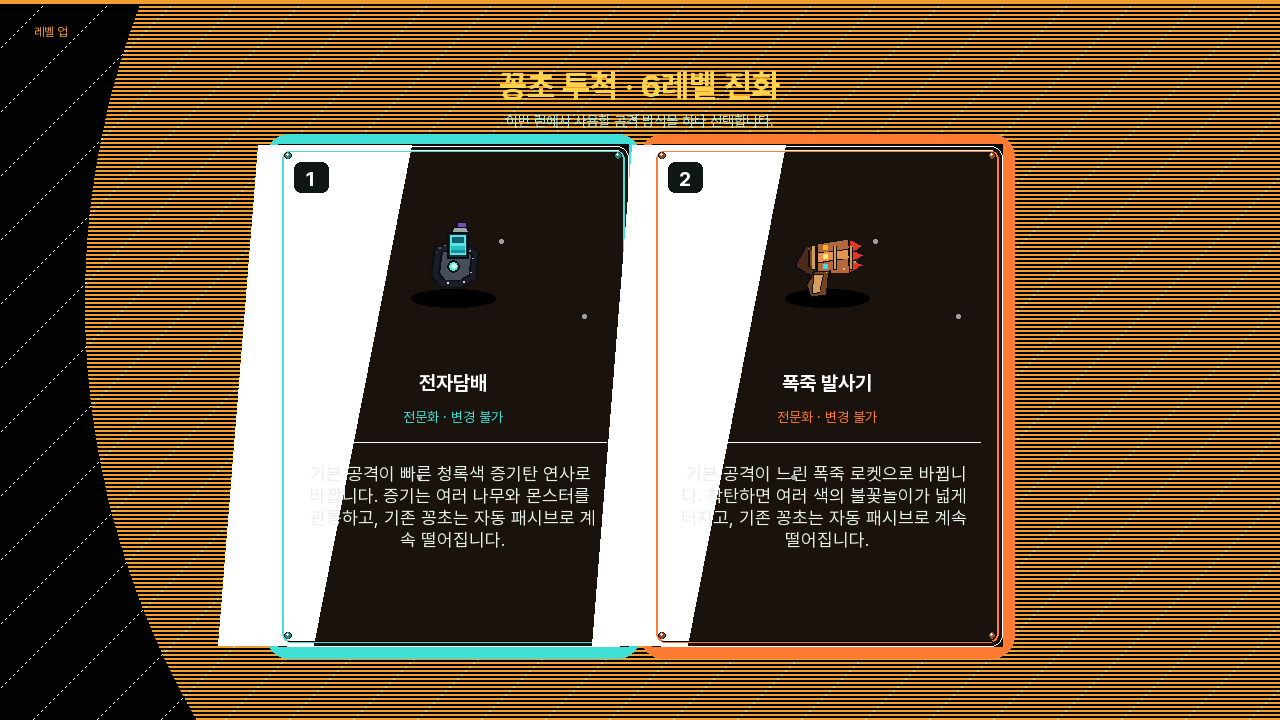
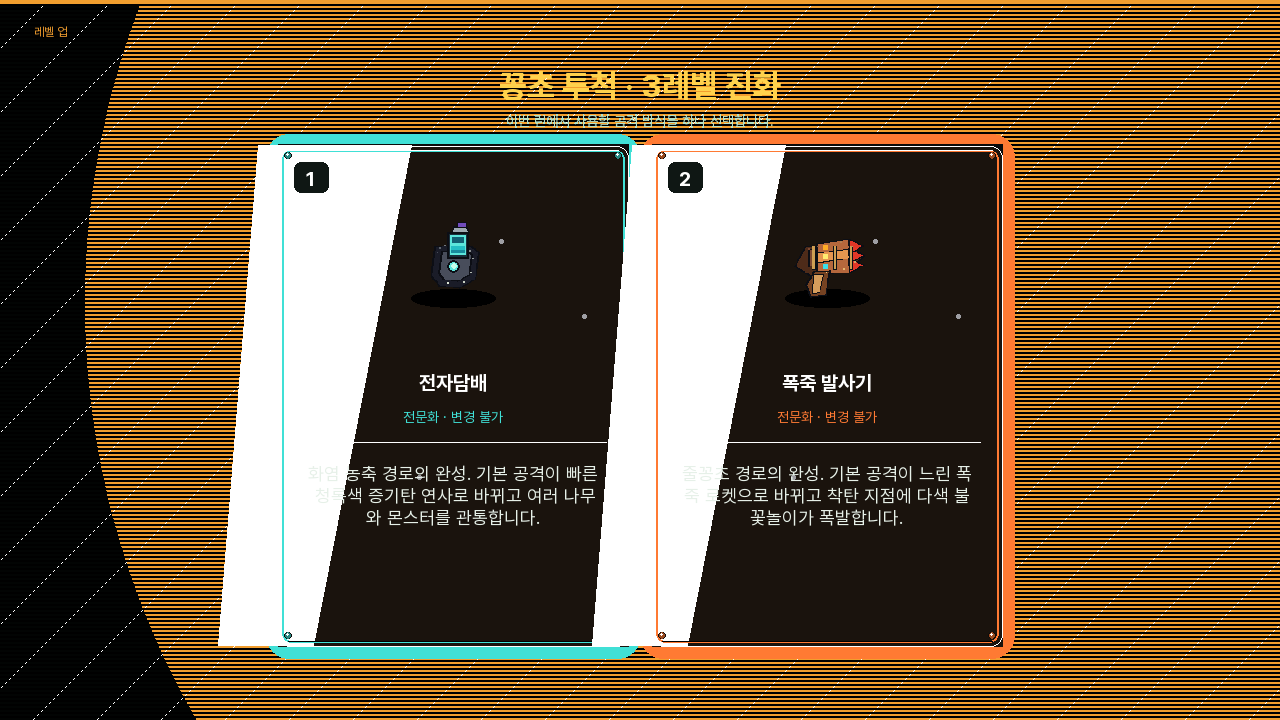
feat: branch smoker skill at rank three

Changed region(s): [[0.5312, 0.6417, 0.7812, 0.7639], [0.25, 0.6417, 0.4688, 0.7639], [0.5, 0.0917, 0.5938, 0.1222]]

diff --git a/docs/character_dossier.html b/docs/character_dossier.html
@@ -671,7 +671,7 @@ const SKILLS = {
   },
   fire: { label: TRAITS.fire.label, accent: TRAITS.fire.accent, tagline: TRAITS.fire.tagline, doctrine: TRAITS.fire.doctrine,
     nodes: [
-      {id:"molotov",track:"spread",name:"꽁초 투척",desc:"사거리와 꽁초의 불씨 전이 범위, 비행 직격 피해가 늘어납니다. 6레벨에는 전자담배/폭죽 중 기본 무기를 진화시키고, 꽁초는 7초간 남아 불씨를 옮기는 자동 패시브가 됩니다."},
+      {id:"molotov",track:"spread",name:"꽁초 투척",desc:"사거리와 꽁초의 불씨 전이 범위, 비행 직격 피해가 늘어납니다. 3레벨에는 화염 농축/줄꽁초 경로를 고르고, 6레벨에는 선택 경로에 따라 전자담배/폭죽 발사기로 자동 진화합니다."},
       {id:"dry_forest",track:"spread",name:"건조주의보 무시",desc:"꽁초의 착화 확률이 레벨당 +6%p 높아지고(최대 75%), 붙은 불이 주변 나무로 더 빠르고 넓게 번집니다."},
       {id:"oil_drum",track:"spread",name:"라이터 기름 유출",desc:"나무가 다 타버리면 레벨당 폭발 확률이 크게 올라(1렙 7.5%→5렙 63%), 6렙에서는 100% 확정 발동합니다."},
       {id:"straw_bale",track:"spread",name:"마른 건초더미 생성",desc:"주기적으로 큰 건초더미를 둡니다. 꽁초가 닿으면 0.5초 뒤 불이 붙고, 레벨에 따라 넓어지는 화염 지대가 주변 나무와 적에게 지속 피해를 줍니다. 불이 옮겨붙어 다른 대상을 점화시키지는 않습니다."},
@@ -747,7 +747,7 @@ const SYNERGY_TAGS = {
   boomerang_axe:["momentum","impact"],seed_mine:["growth","field"],chain_lightning:["momentum","impact"],
 };
 const SKILL_BRANCHES = {
-  molotov:["전자담배 [인게임 구현] — 6레벨 진화. 마우스를 누르면 청록색 증기탄을 빠르게 연사하고 이동 경로의 나무·몬스터를 관통 타격","폭죽 발사기 [인게임 구현] — 6레벨 진화. 곡사 로켓 착탄 뒤 384px 원생 셀의 30프레임 다색 불꽃놀이가 30fps로 이어지며 나무·몬스터를 타격"],
+  molotov:["화염 농축 [인게임 구현] — 3레벨 분기. 불씨 전이 반경 +25%, 확률 +35%, 직격 +35%, 연소·확산 +30%; 6레벨 전자담배 자동 진화","줄꽁초 [인게임 구현] — 3레벨 분기. 한 번에 독립 판정 꽁초 3개비 투척; 6레벨 30fps 다색 폭죽 발사기 자동 진화"],
   seed_mine:["대형 지뢰 — 반경 +42%, 피해 +35%","산탄 지뢰 — 본체 폭발 뒤 작은 씨앗 6개 재폭발","발아 지뢰 — 폭발 자리에 4초 덩굴밭"],
   boomerang_axe:["넓은 도끼 — 피격 폭 +45%, 피해 +18%","빠른 왕복 — 속도 +55%, 발사 주기 -35%","튕기는 도끼 — 몬스터 사이 최대 3회 재조준"],
 };
@@ -878,7 +878,7 @@ function renderSkillsPanel(job, q, jobKey) {
       if (matches) visibleCount++;
       const isSignature = SIGNATURE[jobKey] === n.id;
       const tags = (SYNERGY_TAGS[n.id] || []).map(id => `<span class="synergy-chip" style="--syn:${SYNERGIES[id].color}"><i class="synergy-icon synergy-${id}"></i>${SYNERGIES[id].name}</span>`).join("");
-      const branchLabel = n.id === "molotov" ? "6레벨 무기 진화(택1) · 기존 꽁초 투척은 자동 패시브 유지" : "3레벨 전문화(택1)";
+      const branchLabel = n.id === "molotov" ? "3레벨 경로 2택 · 화염→6레벨 전자담배 / 줄꽁초→6레벨 폭죽 자동 진화" : "3레벨 전문화(택1)";
       const branches = SKILL_BRANCHES[n.id] ? `<div class="branch-list"><b>${branchLabel}</b><br>${SKILL_BRANCHES[n.id].join("<br>")}</div>` : "";
       return `<tr class="${matches ? "" : "is-hidden"}">
         <td><span class="node-name">${n.name}${isSignature ? '<span class="signature-badge" style="--accent:'+job.accent+'">전직 시그니처</span>' : ""}</span><div>${tags}</div></td>
@@ -954,7 +954,7 @@ function renderAll() {
   document.getElementById("masthead-stamp").textContent = MODE_META[mode].stamp;
   document.getElementById("footer").textContent = mode === "traits"
     ? "src/character_traits.lua 기준 · 노드 순서는 선행 조건 깊이(단계) 순"
-    : "src/clearcut_mode.lua + clearcut_synergies.lua + synergy_ui.lua + clearcut_skill_branches.lua + clearcut_fusions.lua 기준 · 흡연자 꽁초 투척 6레벨은 실제 인게임 전자담배/폭죽 무기 진화 택1, 꽁초는 자동 패시브 유지 · 폭죽 폭발은 384px 원생 셀 30프레임을 1초/30fps로 재생 · 연습장에서 모든 직업/공용 스킬 레벨을 명시적인 −/+ 버튼으로 즉시 활성화하고 씨앗 지뢰·부메랑 도끼가 3레벨에 도달하면 일반 런과 같은 전체화면 전문화 3택을 즉시 표시하며 무기 진화·융합도 직접 선택 가능 · 인게임 시너지는 검은 소켓이나 카드 없이 64px 엠블럼 아이콘만 표시하고 이름·수치·단계 설명은 호버에서만 표시 · 반복 격자 배경 미사용 · 자동 스킬 피해는 저레벨 완만/6레벨 완성 · 시너지 2개는 Lv.6, 4개는 Lv.28부터";
+    : "src/clearcut_mode.lua + clearcut_synergies.lua + synergy_ui.lua + clearcut_skill_branches.lua + clearcut_fusions.lua 기준 · 흡연자 꽁초 투척은 3레벨 화염 농축/줄꽁초 2택 뒤 6레벨에 각각 전자담배/폭죽 발사기로 자동 진화하고 강화된 꽁초 자동 패시브를 유지 · 폭죽 폭발은 384px 원생 셀 30프레임을 1초/30fps로 재생 · 연습장에서 꽁초 투척·씨앗 지뢰·부메랑 도끼가 3레벨에 도달하면 일반 런과 같은 전체화면 분기를 즉시 표시하며 융합도 직접 선택 가능 · 인게임 시너지는 검은 소켓이나 카드 없이 64px 엠블럼 아이콘만 표시하고 이름·수치·단계 설명은 호버에서만 표시 · 반복 격자 배경 미사용 · 자동 스킬 피해는 저레벨 완만/6레벨 완성 · 시너지 2개는 Lv.6, 4개는 Lv.28부터";
   buildModeSwitch();
   buildTabs();
   renderPanel(document.getElementById("search").value);

diff --git a/docs/CLEARCUT_SYNERGY_DESIGN.md b/docs/CLEARCUT_SYNERGY_DESIGN.md
@@ -56,7 +56,12 @@
 
 ## 3레벨 전문화
 
-씨앗 지뢰와 부메랑 도끼가 2레벨에서 3레벨이 되는 순간 일반 3택을 잠시 중단하고 전용 전문화 3택을 연다. 연습장에서도 `+`로 3레벨에 도달하는 즉시 같은 전체화면 3택을 열며, 패널 아래에서 별도로 찾아 누르게 하지 않는다. 한 런에서 하나만 고르며 되돌릴 수 없다.
+꽁초 투척, 씨앗 지뢰, 부메랑 도끼가 2레벨에서 3레벨이 되는 순간 일반 3택을 잠시 중단하고 전용 분기를 연다. 연습장에서도 `+`로 3레벨에 도달하는 즉시 같은 전체화면 선택을 열며, 패널 아래에서 별도로 찾아 누르게 하지 않는다. 한 런에서 하나만 고르며 되돌릴 수 없다.
+
+### 꽁초 투척
+
+- **화염 농축:** 불씨 전이 반경·확률, 비행 직격, 연소 피해와 확산을 강화한다. 6레벨 전자담배로 자동 진화.
+- **줄꽁초:** 투척 한 번에 별도 판정을 가진 꽁초 3개비를 퍼뜨린다. 6레벨 폭죽 발사기로 자동 진화.
 
 ### 씨앗 지뢰
 
@@ -70,12 +75,12 @@
 - **빠른 왕복:** 비행 속도 +55%, 발사 주기 -35%.
 - **튕기는 도끼:** 나가는 도중 몬스터를 맞히면 최대 3회 다른 몬스터로 재조준.
 
-## 흡연자 6레벨 무기 진화
+## 흡연자 6레벨 경로별 자동 진화
 
-`꽁초 투척`이 6레벨이 되면 일반 카드 선택을 잠시 중단하고 전용 2택을 연다. 선택 뒤 마우스 기본 공격만 새 무기로 교체되며, 기존 꽁초 투척은 2.6초 주기의 자동 패시브로 계속 작동해 바닥 불씨 전이 구조를 유지한다.
+`꽁초 투척`이 6레벨이 되면 3레벨에 고른 경로를 다시 묻지 않고 새 무기로 자동 진화한다. 마우스 기본 공격만 교체되며, 기존 꽁초 투척은 2.6초 주기의 자동 패시브로 계속 작동해 각 경로의 강화된 바닥 불씨 구조를 유지한다.
 
 - **전자담배:** 짧은 주기의 청록·보라 증기탄을 연사한다. 보이는 증기 덩어리와 같은 넉넉한 swept-circle 판정으로 나무와 몬스터를 관통한다.
-- **폭죽 발사기:** 목표 지점으로 로켓을 곡사 발사한다. 착탄 시 빨강·금색·청록·초록·자홍 불꽃이 6프레임으로 퍼지며 넓은 범위에 피해를 주고 식물형 대상에는 불을 붙인다.
+- **폭죽 발사기:** 목표 지점으로 로켓을 곡사 발사한다. 착탄 시 빨강·금색·청록·초록·자홍 불꽃이 30프레임/1초로 부드럽게 퍼지며 넓은 범위에 피해를 주고 식물형 대상에는 불을 붙인다.
 - 장비는 `assets/characters/ingame/smoker-weapon-evolution-equipment-v1.png`, 증기/로켓은 `assets/effects/smoker-weapon-evolution-fx-v1.png`, 폭죽 폭발은 384px 셀 30프레임의 `assets/effects/smoker-firework-burst-v2.png`를 nearest 필터로 사용한다.
 - 제작 시안은 `assets/effects/concepts/smoker-weapon-evolutions-concept-v1.png`, 실제 크기 오프스크린 검수본은 `docs/previews/smoker-weapon-evolutions-v1.png`다.
 

diff --git a/docs/SMOKER_WEAPON_EVOLUTIONS.md b/docs/SMOKER_WEAPON_EVOLUTIONS.md
@@ -1,12 +1,17 @@
-# 흡연자 만렙 무기 진화
+# 흡연자 3레벨 분기와 만렙 무기 진화
 
 ## 진입 규칙
 
-`꽁초 투척` 5→6레벨 선택 직후 전용 2택을 연다. 선택은 해당 런에서 변경할 수 없다. 융합 조건도 같은 선택 흐름 뒤 정상 검사한다.
+`꽁초 투척` 2→3레벨 선택 직후 전용 경로 2택을 연다. **화염 농축**은 착화·연소 중심이며 6레벨에 전자담배로, **줄꽁초**는 한 번에 3개비를 던지는 물량형이며 6레벨에 폭죽 발사기로 자동 진화한다. 경로는 해당 런에서 변경할 수 없고, 6레벨에는 선택창을 다시 띄우지 않는다.
+
+## 3레벨 경로
+
+- **화염 농축 → 전자담배:** 꽁초 불씨 전이 반경 +25%, 불씨 전이 확률 +35%, 비행 직격 피해 +35%, 식물형 연소 피해와 나무 간 확산 성능 +30%.
+- **줄꽁초 → 폭죽 발사기:** 수동 투척과 자동 꽁초 투척이 한 번에 3개비로 갈라진다. 각 꽁초는 별도 비행·직격·착지·7초 불씨 전이 판정을 가지며 수동 공격은 탄약 3개비를 소비한다.
 
 ## 공통 패시브
 
-진화 전 기본 공격이던 꽁초 투척은 자동 패시브로 전환된다. 6레벨 기준 2.6초마다 나무를 골라 꽁초를 던지며, 바닥에 7초간 남고 확률적으로 불씨를 옮기는 기존 규칙을 그대로 사용한다.
+진화 전 기본 공격이던 꽁초 투척은 자동 패시브로 전환된다. 6레벨 기준 2.6초마다 나무를 골라 꽁초를 던지며, 바닥에 7초간 남고 확률적으로 불씨를 옮긴다. 화염 농축은 강화된 불씨 수치를 유지하고, 줄꽁초는 자동 패시브도 3개비로 갈라진다.
 
 ## 전자담배
 
@@ -39,6 +44,6 @@
 
 ## 연습장에서 확인
 
-로비의 `연습`에서 흡연자를 고른다. 오른쪽 스킬 목록에서 `꽁초 투척` 행을 눌러 Lv.6으로 만든 뒤 `무기 진화`의 `전자담배` 또는 `폭죽 발사기`를 직접 고른다. 선택 직후 마우스 왼쪽 버튼을 누르고 있으면 해당 기본 공격을 시험할 수 있다. `전부 만렙`과 `전체 초기화`로 빌드를 빠르게 재설정할 수 있고, 목록이 화면보다 길면 패널 위에서 휠로 스크롤한다.
+로비의 `연습`에서 흡연자를 고른다. 오른쪽 `꽁초 투척`의 `+`를 눌러 3레벨이 되면 화염 농축/줄꽁초 전체화면 2택이 즉시 열린다. 선택 후 6레벨까지 올리면 각각 전자담배/폭죽 발사기로 자동 진화한다. 마우스 왼쪽 버튼을 누르고 있으면 해당 기본 공격을 시험할 수 있다.
 
 실제 연습장 패널 오프스크린 검수본은 `docs/previews/skill-sandbox-v2.png`다.
